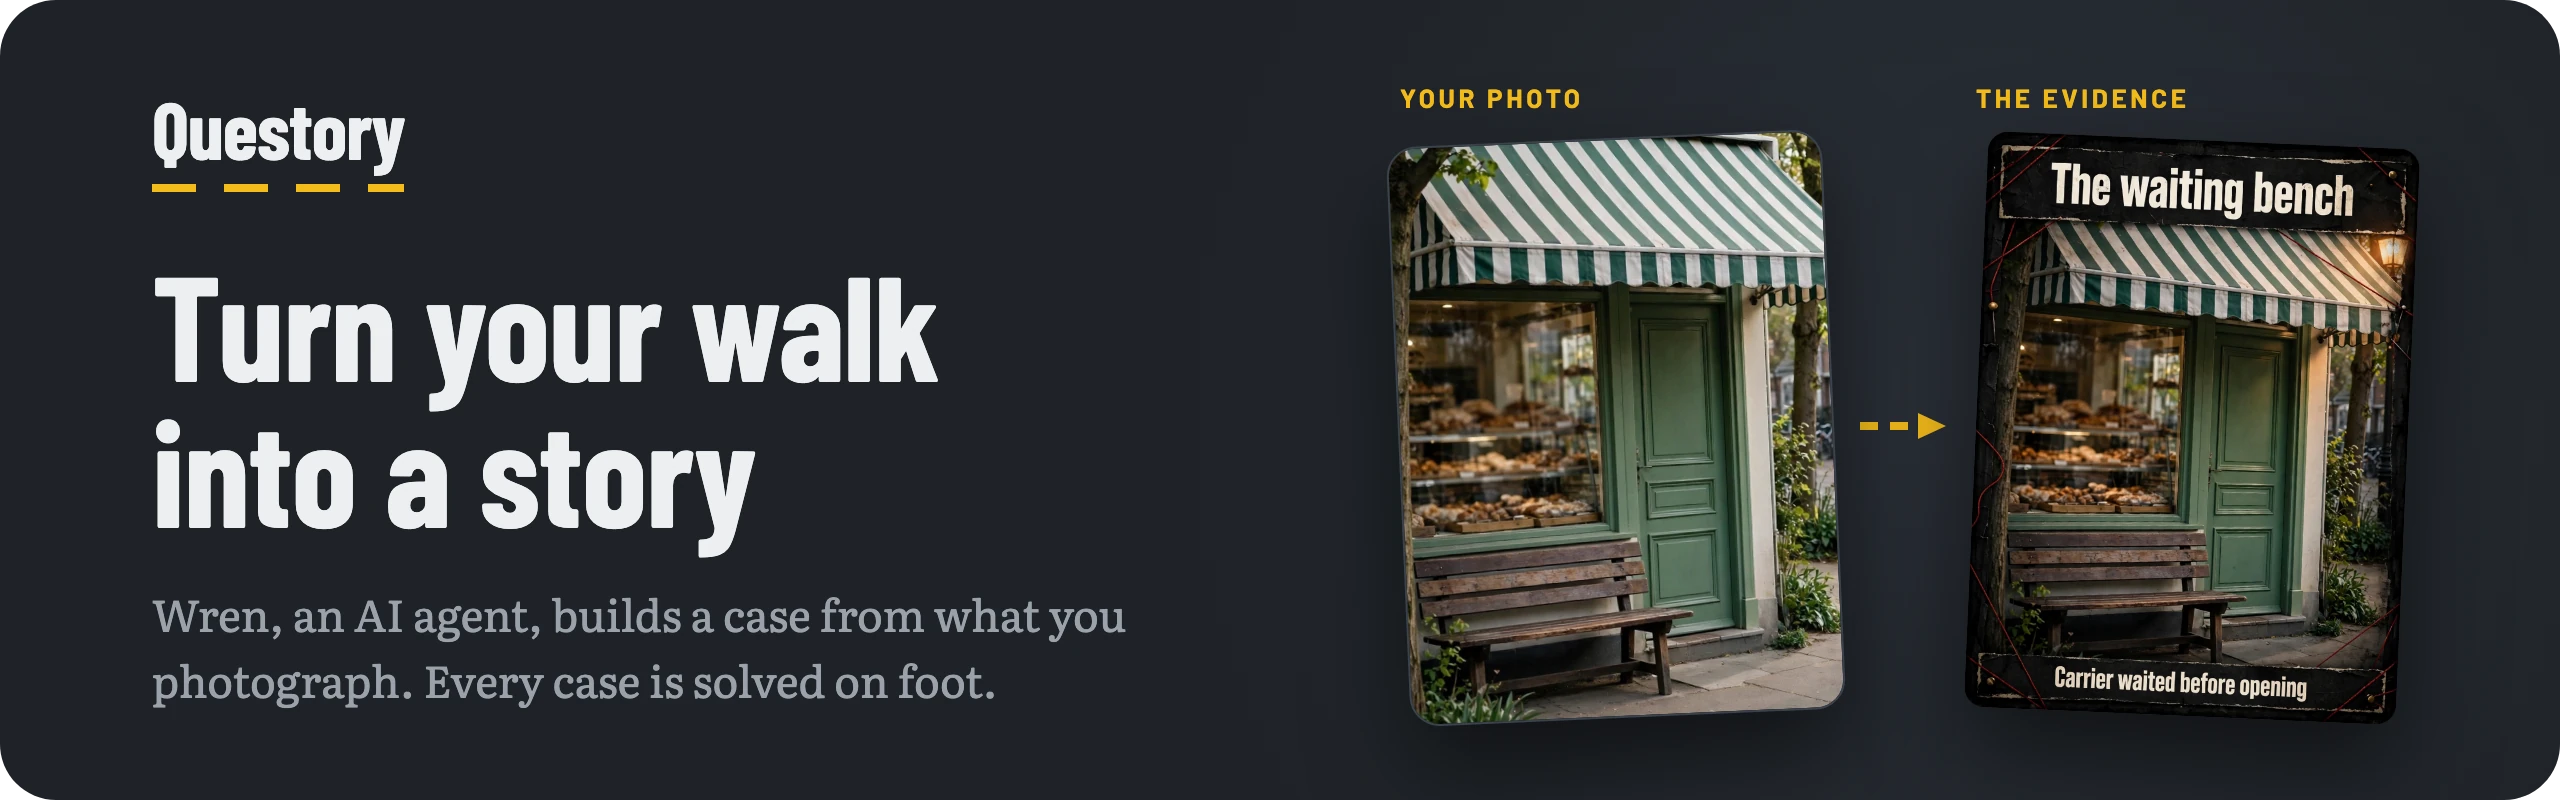
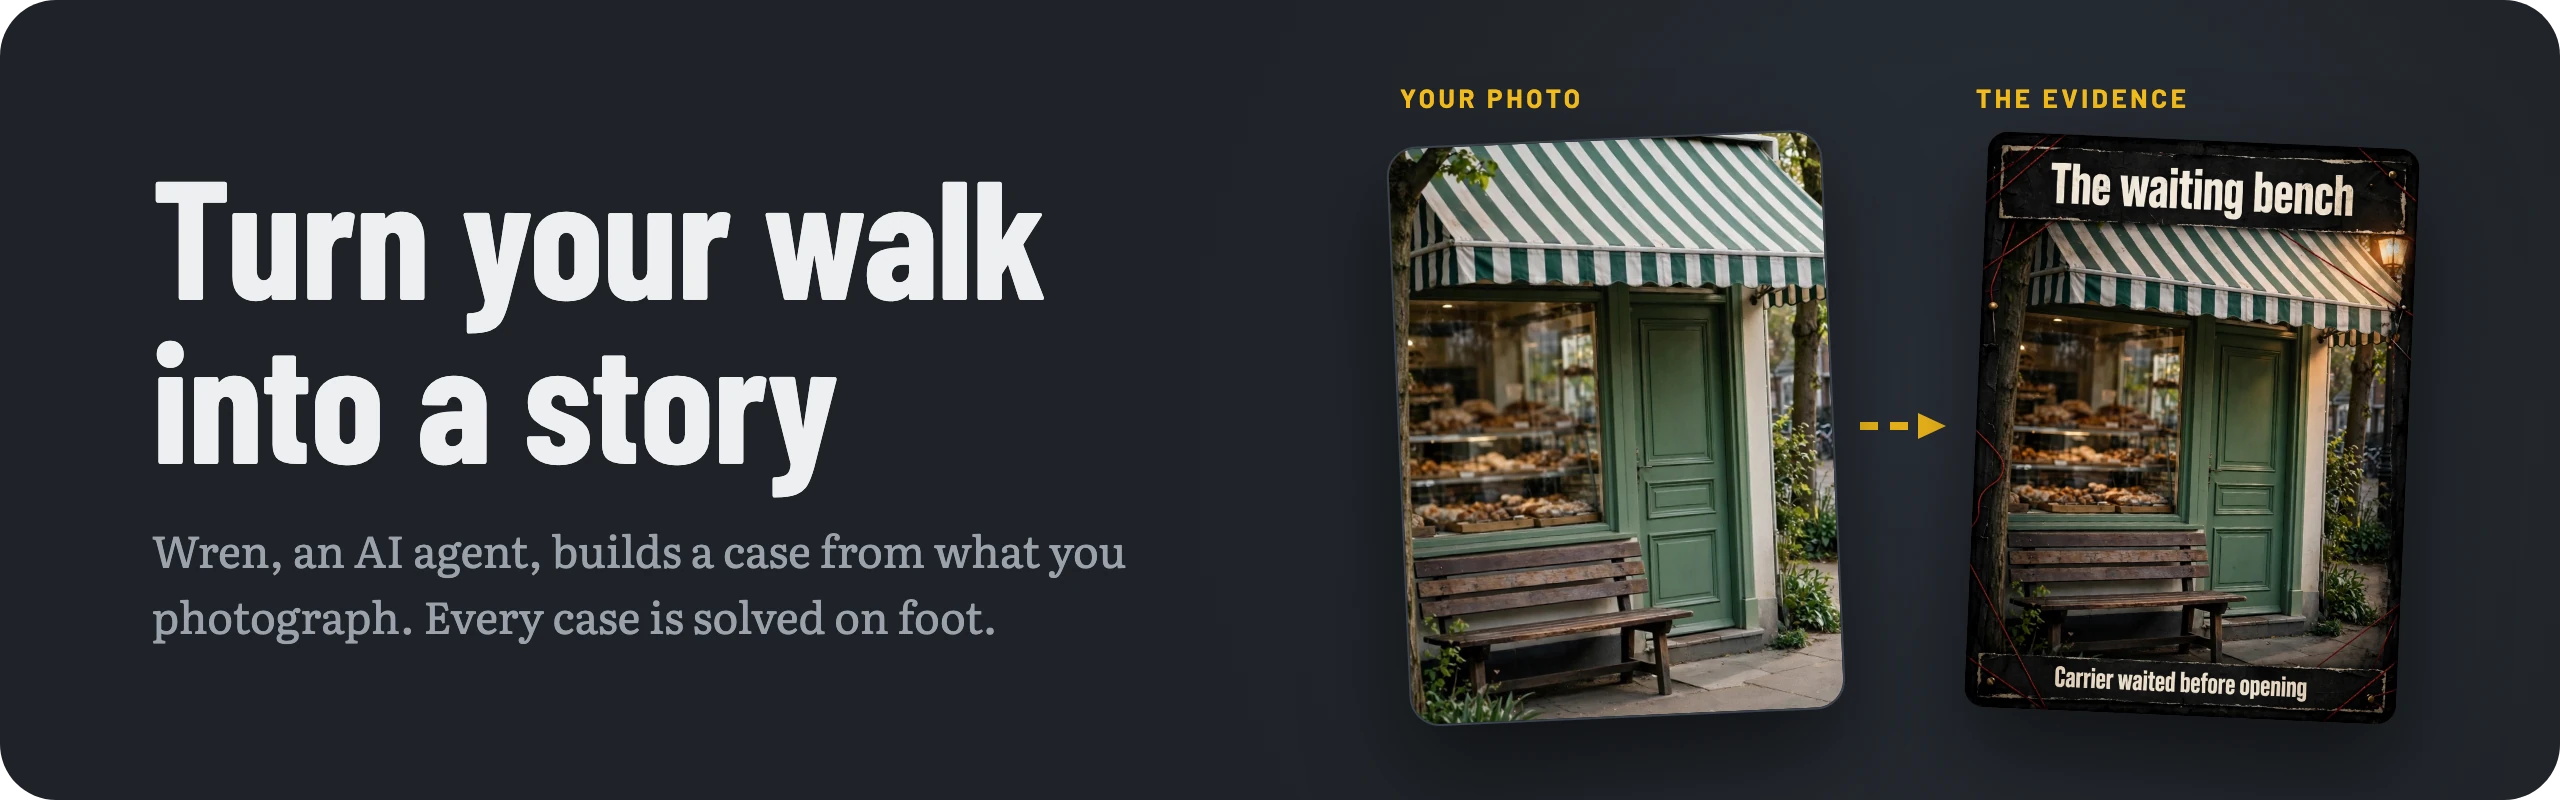
Give the README a title and standard badges, and retake the screenshots (#66)
The README now opens with a "Questory" title, the banner (without its
own wordmark, so the name appears once), "Play at questory.run" and one
row of standard badges for CI, the license, Next.js and the Meta Model
API. The section links, the play badge and the Impact page sentence are
gone.

The landing page and README screenshots are retaken from a live case on
the current game, so they no longer show closer looks first or twice in
a row. The opening shows the first errand with its 5-minute countdown,
the evidence screen shows the Spare key list card with the next walk
counting down, and the case sheet shows four pieces found. The photos
were made by Muse Image, so no player's photo is used.

The screenshots have new file names, so the image optimizer can't serve
the old ones from its cache. The How it works diagram keeps the old
evidence screen, which still shows SAM 3.1's outline on a closer look,
under public/how-it-works/screen.webp.

The landing page footer no longer says "No account to make, and it never
asks where you are."

Checked with typecheck, lint, the tests (47 pass) and a build. The
README was previewed through GitHub's renderer.

Changed region(s): [[0.0625, 0.125, 0.4375, 0.7188], [0.0625, 0.75, 0.4375, 0.8125], [0.0625, 0.8438, 0.4062, 0.875]]

diff --git a/app/page.tsx b/app/page.tsx
@@ -10,20 +10,20 @@ import { WALKING_FACTS } from "@/lib/impact";
 /** Three moments from a real case, played on a phone. */
 const MOMENTS = [
   {
-    src: "/landing/opening.webp",
-    alt: "A photo of a bakery on a street corner, with the opening of a case below it: the bakery's sourdough starter has gone, and the next step is a closer look at the bench outside.",
+    src: "/landing/case-opening.webp",
+    alt: "A photo of a bakery on a street corner, with the opening of a case below it: the baker's sourdough starter has gone, and the next step is a walk down the street to a noticeboard, with 5 minutes counted down.",
     title: "Your street starts the case",
     text: "Take a photo of where you are, even indoors. Wren turns it into the start of a case, then leads you outside.",
   },
   {
-    src: "/landing/evidence.webp",
-    alt: "The photo redrawn as an evidence card called The waiting bench, with Wren's note that someone sat there before the bakery opened.",
+    src: "/landing/case-evidence.webp",
+    alt: "A noticeboard photo painted as an evidence card called Spare key list, with Wren's note that a spare key is kept for early deliveries, and the next walk counting down.",
     title: "Follow the quests",
     text: "Each quest asks for a photo of something a few minutes' walk away, or now and then up close. A photo that moves the case forward becomes a piece of evidence.",
   },
   {
-    src: "/landing/case.webp",
-    alt: "The case so far: two pieces of evidence found, and ten more to find before the answer.",
+    src: "/landing/case-so-far.webp",
+    alt: "The case so far: four pieces of evidence found, and eight more to find before the answer.",
     title: "Solve the case",
     text: "Collect evidence until it points to the answer, by the end of your walk.",
   },
@@ -129,7 +129,7 @@ export default function Home() {
         </p>
       </section>
 
-      <SiteFooter current="home">No account to make, and it never asks where you are.</SiteFooter>
+      <SiteFooter current="home" />
     </main>
   );
 }

diff --git a/components/ScreenParts.tsx b/components/ScreenParts.tsx
@@ -20,7 +20,7 @@ export function ScreenParts({ className = "" }: { className?: string }) {
       <div className="mx-auto w-[72%] max-w-[17rem] overflow-hidden rounded-[2rem] border-[6px] border-kerb shadow-[0_24px_60px_-24px_rgba(0,0,0,0.8)] md:mx-0 md:w-[17rem]">
         <div className="relative">
           <Image
-            src="/landing/evidence.webp"
+            src="/how-it-works/screen.webp"
             alt="A game screen: a painted evidence picture called The waiting bench, the story under it, and the next step with a small copy of the photo where a door is outlined."
             width={600}
             height={1300}

diff --git a/README.md b/README.md
@@ -1,31 +1,23 @@
-<p align="center">
-  <a href="https://questory.run"><img src="docs/banner.webp" alt="Questory: turn your walk into a story. Wren, an AI agent, builds a case from what you photograph, and every case is solved on foot. A street photo sits beside the same photo painted as a piece of evidence."></a>
-</p>
+<div align="center">
 
-<p align="center">
-  <a href="https://questory.run"><img src="https://img.shields.io/badge/play-questory.run-f4bc1c?style=flat-square&labelColor=1e2227" alt="Play at questory.run"></a>
-  <a href="https://github.com/QiaoyuYang/questory/actions/workflows/ci.yml"><img src="https://img.shields.io/github/actions/workflow/status/QiaoyuYang/questory/ci.yml?branch=main&style=flat-square&label=CI&labelColor=1e2227" alt="CI status"></a>
-  <a href="#how-it-works"><img src="https://img.shields.io/badge/Meta_Model_API-Muse_%2B_SAM_3.1-0866ff?style=flat-square&logo=meta&logoColor=white&labelColor=1e2227" alt="Built on the Meta Model API: Muse and SAM 3.1"></a>
-  <a href="https://nextjs.org"><img src="https://img.shields.io/badge/Next.js-16-edeff1?style=flat-square&logo=nextdotjs&logoColor=white&labelColor=1e2227" alt="Next.js 16"></a>
-  <a href="LICENSE"><img src="https://img.shields.io/badge/license-MIT-9ba2ab?style=flat-square&labelColor=1e2227" alt="MIT License"></a>
-</p>
+# Questory
 
-<p align="center">
-  <a href="https://questory.run">Play</a> ·
-  <a href="#how-to-play">How to play</a> ·
-  <a href="#how-it-works">How it works</a> ·
-  <a href="#privacy">Privacy</a> ·
-  <a href="#run-it-locally">Run it locally</a>
-</p>
+<img src="docs/banner.webp" alt="Turn your walk into a story. Wren, an AI agent, builds a case from what you photograph, and every case is solved on foot. A street photo sits beside the same photo painted as a piece of evidence.">
 
-Questory is made for phones. Open [questory.run](https://questory.run) on your phone, or scan the code it shows on a computer. It was built on the Meta Model API for the Meta Global AI Developer Hackathon. Why it's played on foot, and with a friend, is on the [Impact page](https://questory.run/impact).
+Play at [questory.run](https://questory.run)
+
+[![CI](https://img.shields.io/github/actions/workflow/status/QiaoyuYang/questory/ci.yml?branch=main&label=CI)](https://github.com/QiaoyuYang/questory/actions/workflows/ci.yml) [![License: MIT](https://img.shields.io/github/license/QiaoyuYang/questory)](LICENSE) [![Next.js 16](https://img.shields.io/badge/Next.js-16-black?logo=nextdotjs)](https://nextjs.org) [![Meta Model API](https://img.shields.io/badge/Meta_Model_API-Muse_%2B_SAM_3.1-0866FF?logo=meta&logoColor=white)](#how-it-works)
+
+</div>
+
+Questory is made for phones. Open [questory.run](https://questory.run) on your phone, or scan the code it shows on a computer. It was built on the Meta Model API for the Meta Global AI Developer Hackathon.
 
 <div align="center">
 <table>
   <tr>
-    <td align="center"><img src="public/landing/opening.webp" width="230" alt="A photo of a bakery on a street corner, with the opening of a case below it"><br>Your street starts the case</td>
-    <td align="center"><img src="public/landing/evidence.webp" width="230" alt="The photo redrawn as an evidence card called The waiting bench"><br>Follow the quests</td>
-    <td align="center"><img src="public/landing/case.webp" width="230" alt="The case so far: two pieces of evidence found, and ten more to find"><br>Solve the case</td>
+    <td align="center"><img src="public/landing/case-opening.webp" width="230" alt="A photo of a bakery on a street corner, with the opening of a case below it and a 5-minute walk to the next step"><br>Your street starts the case</td>
+    <td align="center"><img src="public/landing/case-evidence.webp" width="230" alt="A noticeboard photo painted as an evidence card called Spare key list"><br>Follow the quests</td>
+    <td align="center"><img src="public/landing/case-so-far.webp" width="230" alt="The case so far: four pieces of evidence found, and eight more to find"><br>Solve the case</td>
   </tr>
 </table>
 </div>
